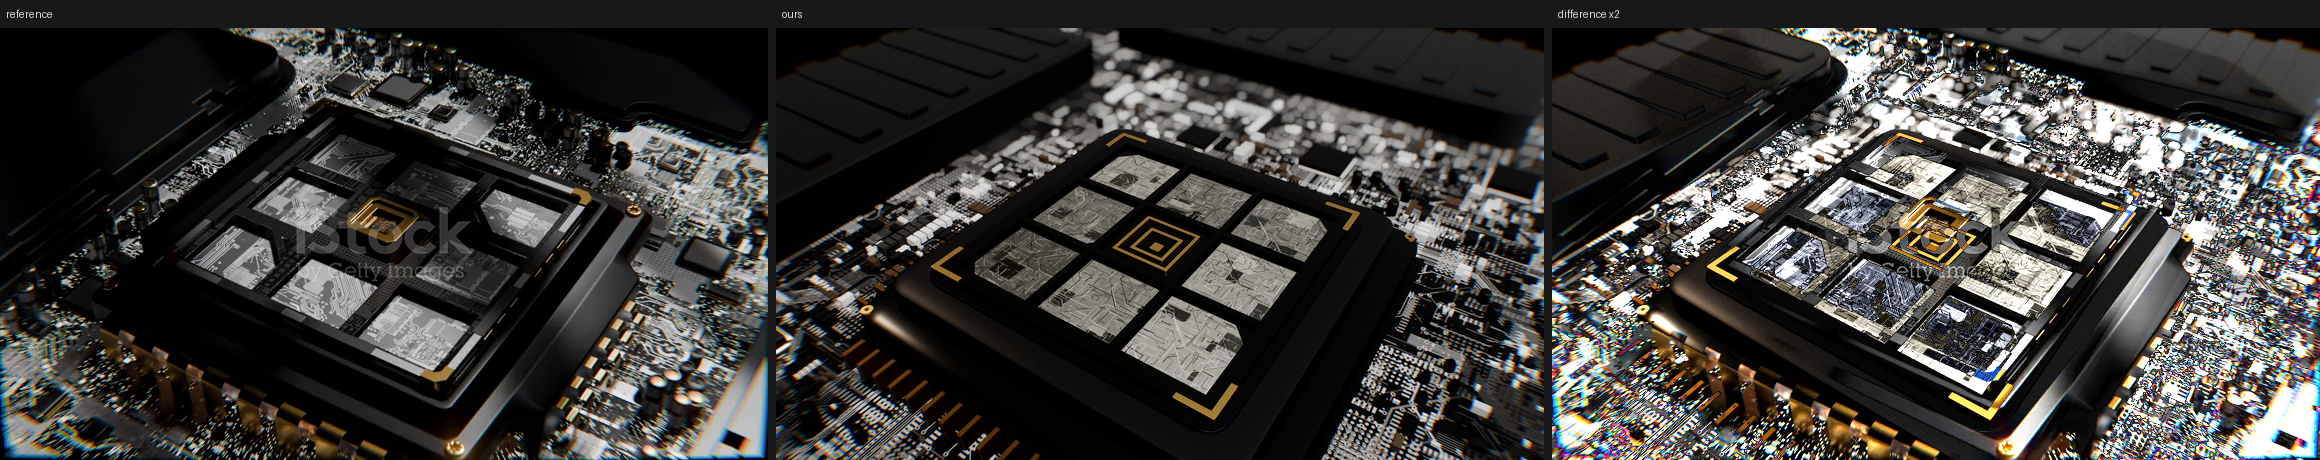
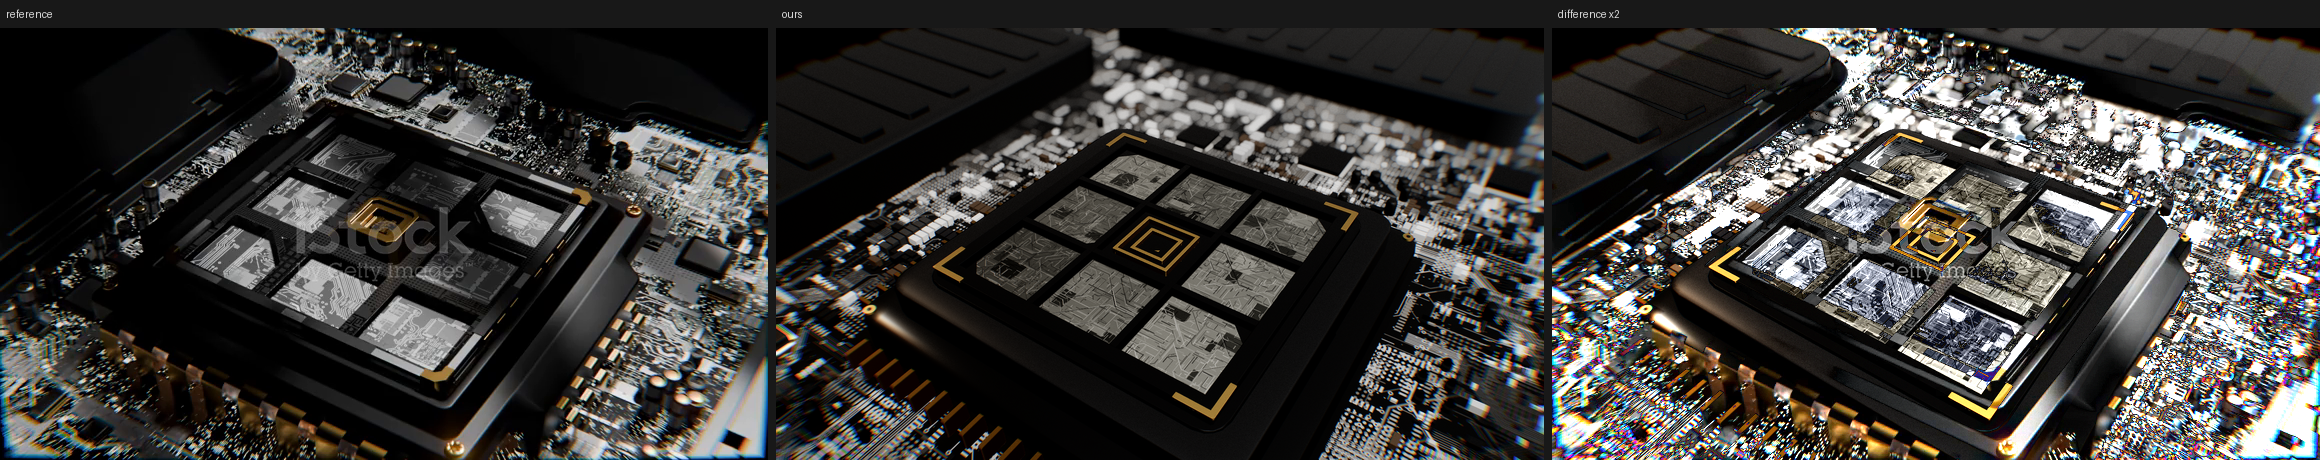
chip-ignite: reroute the Version 2 camera so it keeps the dark background
Claude-Session: https://claude.ai/code/session_016jjL2AH2HD4rFCQ3eAYRxu

Changed region(s): [[0.3103, 0.0609, 1.0, 1.0], [0.9931, 0.0913, 1.0, 0.1217], [0.9621, 0.0609, 0.9931, 0.0913]]

diff --git a/chip-ignite/src/config.ts b/chip-ignite/src/config.ts
@@ -87,13 +87,15 @@ export const CAMERA_V1: CameraMove = {
 };
 
 /**
- * Version 2 - a different camera movement: starts high and wide, square to
- * the package, then spirals down the other way and pushes in on the chip.
+ * Version 2 - a different camera movement: starts high, wide and nearly
+ * square to the package, then spirals down around it and pushes in, ending
+ * low and close on the burning chip. (Version 1 does the opposite: it rises
+ * and pulls back with only a small orbit.)
  */
 export const CAMERA_V2: CameraMove = {
-  azimuth: [[0, 8], [13.6, -58]],
-  elevation: [[0, 72], [6, 54], [13.6, 36]],
-  distance: [[0, 36], [6.5, 29], [13.6, 22]],
+  azimuth: [[0, 20], [13.6, 95]],
+  elevation: [[0, 62], [6, 50], [13.6, 34]],
+  distance: [[0, 34], [6.5, 29], [13.6, 23]],
   roll: [[0, 0], [13.6, 0]],
   targetX: [[0, 0], [13.6, 0]],
   targetY: [[0, 0], [13.6, 0.4]],

diff --git a/qc/build-report.py b/qc/build-report.py
@@ -1,0 +1,136 @@
+#!/usr/bin/env python3
+"""build-report.py - assemble deliverables/QC-report.md from the QC data.
+
+Usage: python3 qc/build-report.py <data dir>
+The data dir holds the JSON written by verify.py, look-over-time.py and
+temporal.py plus extra.json (determinism, banding, ZIP test, render times).
+"""
+import io
+import json
+import os
+import shutil
+import subprocess
+import sys
+
+ROOT = "/home/user/Toma"
+D = sys.argv[1]
+OUT = f"{ROOT}/deliverables"
+PARTS = f"{ROOT}/qc/report-parts"
+VIDS = [("01-V1", "01-V1-ai-chip-reveal.mp4"), ("02-V2", "02-V2-ai-chip-reveal.mp4"),
+        ("03-V1", "03-V1-chip-ignite.mp4"), ("04-V2", "04-V2-chip-ignite.mp4")]
+extra = json.load(open(f"{D}/extra.json"))
+
+
+def tables(*args):
+    return subprocess.run([sys.executable, f"{ROOT}/qc/tables.py", *args],
+                          capture_output=True, text=True, check=True).stdout
+
+
+def part(name):
+    return open(f"{PARTS}/{name}").read().rstrip() + "\n"
+
+
+o = io.StringIO()
+w = lambda s="": o.write(s + "\n")
+
+w("# QC report - ai-chip-reveal and chip-ignite")
+w()
+w("Two reference clips, two Remotion projects, four videos. Every number in this report was measured on the delivered files with the scripts in `qc/` and in each project's `scripts/` folder.")
+w()
+w("| # | File | What it is |")
+w("|---|---|---|")
+w("| 1 | `01-V1-ai-chip-reveal.mp4` | Reference A, Version 1 (closest match) |")
+w("| 2 | `02-V2-ai-chip-reveal.mp4` | Reference A, Version 2: colour palette changed (amber -> cyan) |")
+w("| 3 | `03-V1-chip-ignite.mp4` | Reference B, Version 1 (closest match) |")
+w("| 4 | `04-V2-chip-ignite.mp4` | Reference B, Version 2: camera movement changed |")
+w("| 5 | `ai-chip-reveal-project.zip`, `chip-ignite-project.zip` | Sources with both 4K compositions each |")
+w()
+w(part("1-analysis.md"))
+
+# ---------------------------------------------------------------- look dev
+w("## 2. Look development (step 4A)")
+w()
+w("`scripts/measure-look.py` (in both projects) reports luminance percentiles, clipped and dark pixel shares, saturation and split-tone hue, glow falloff, haze contrast by region, grain, detail and vignette. All frames are measured at 768x432 with the stock watermark area masked out. Glow radii are fractions of the frame height; `-` means the brightness never falls that far.")
+w()
+for proj, ref, times in (("ai-chip-reveal", "refA", "0.5, 1.5, 3.5, 6.0 and 9.5 s"),
+                         ("chip-ignite", "refB", "0.5, 4.0, 6.4, 8.4 and 13.0 s")):
+    w(f"### {proj}: the reference at five moments ({times})")
+    w()
+    w(open(f"{D}/{ref}-table.md").read())
+for proj, moments, frames in (("ai-chip-reveal", "start,peak,middle", "0.5 s, 1.5 s and 6.0 s"),
+                              ("chip-ignite", "start,middle,peak", "0.5 s, 6.4 s and 8.4 s")):
+    w(f"### {proj}: the three look-dev stills ({frames}) against the reference")
+    w()
+    w(tables("lookdev", f"{ROOT}/{proj}/lookdev/look-measures.json", moments))
+    for m in moments.split(","):
+        dst = f"qc/lookdev-{proj}-{m}.png"
+        shutil.copy(f"{ROOT}/{proj}/lookdev/compare-{m}.png", f"{OUT}/{dst}")
+        w(f"![{proj} {m}: reference | ours | difference]({dst})")
+        w()
+
+# ------------------------------------------------------------ look over time
+w("## 3. Look table: each video against its reference over time (step 8A-7)")
+w()
+w("Five moments per video. `ref` is the reference frame, `ours` the frame of the delivered MP4 at the same time, `diff` = ours - ref. A cross marks a value outside the step 4A target (+-10% of the reference; hues +-10 degrees; small absolute tolerances where 10% of a near-zero value is meaningless, see `qc/look-over-time.py`). For the Version 2 of ai-chip-reveal the hue and saturation measures are skipped, because the palette is what changed. For the Version 2 of chip-ignite all measures are listed for information only: its camera is different on purpose, so the frames are not comparable shot for shot.")
+w()
+w(tables("look", *[f"{D}/lot-{k[:2]}.json" for k, _ in VIDS]))
+w()
+w("**Summary.** " + extra["look_summary"])
+w()
+w("**Stability over time** (`qc/temporal.py`: largest frame-to-frame step of each quantity, measured on every frame; for ai-chip-reveal the intended flash and whip, frames 60-112, are left out):")
+w()
+w("| Video | Median luminance | p95 luminance | Edge contrast (haze) | Grain level (8-bit) |")
+w("|---|---|---|---|---|")
+for k, name in VIDS:
+    t = json.load(open(f"{D}/temp-{k[:2]}.json"))
+    w(f"| `{name}` | {t['median_luminance']['max_step']:.4f} | {t['p95_luminance']['max_step']:.4f} | {t['edge_contrast_haze']['max_step']:.4f} | {t['grain_level_8bit']['max_step']:.3f} |")
+w()
+w("Luminance values are on a 0-1 scale, so the largest step anywhere is 2% of full scale: light, haze and grain do not flicker or jump.")
+w()
+
+# ------------------------------------------------------------------ checks
+w("## 4. Technical checks (step 8A)")
+w()
+w(tables("specs", *[f"{D}/{k}.json" for k, _ in VIDS]))
+w()
+w("| # | Check | Result | Measured |")
+w("|---|---|---|---|")
+for row in extra["checks"]:
+    w("| " + " | ".join(row) + " |")
+w()
+for k, name in VIDS:
+    stem = name[:-4]
+    w(f"Contact sheet, one frame per second - `{name}`:")
+    w()
+    w(f"![contact sheet {stem}](qc/contact-{stem}.png)")
+    w()
+w("Dark gradient of ai-chip-reveal with levels stretched x4 (frame at 6.0 s of the delivered MP4):")
+w()
+w("![banding check](qc/banding-x4-01-V1-ai-chip-reveal.png)")
+w()
+
+# --------------------------------------------------------------------- V2
+w("## 5. Version 2 distinctness (step 8B-11)")
+w()
+w("Version 1 on top, Version 2 below, same times.")
+w()
+w("![ai-chip-reveal V1 vs V2](qc/v1-vs-v2-ai-chip-reveal.png)")
+w()
+w("![chip-ignite V1 vs V2](qc/v1-vs-v2-chip-ignite.png)")
+w()
+w(extra["v2_text"])
+w()
+w(part("5-subagents.md"))
+
+# -------------------------------------------------------------------- ZIP
+w("## 7. ZIP test (step 8A-9)")
+w()
+w(extra["zip_text"])
+w()
+w("## 8. Render times")
+w()
+w(extra["render_text"])
+w()
+w(part("6-unmatched.md"))
+open(f"{OUT}/QC-report.md", "w").write(o.getvalue())
+print("wrote", f"{OUT}/QC-report.md", len(o.getvalue()), "chars")

diff --git a/qc/report-parts/5-subagents.md b/qc/report-parts/5-subagents.md
@@ -44,4 +44,5 @@ Every review was done by a fresh sub-agent that saw only the image pairs or fram
 | Video | Is the change clearly visible? | Everything else the same concept and quality? | Notes |
 |---|---|---|---|
 | 02-V2-ai-chip-reveal (palette) | **Yes** - "orange/gold accents are unmistakably replaced by cyan/blue with white highlights in all three frames" | **Yes** - "staging, framing, timing and background match closely" | The reviewer noted two things specific to Version 2: the pin field blown out to white, and a leftover brown chip face. Both were fixed afterwards (the chip face is now part of the palette and the cyan pin colour was darkened to the same brightness as the copper one: mean frame brightness 69.5 against 69.7 in Version 1) and Version 2 was rendered again. Its other notes (trace distribution, materials, sharpness) apply equally to Version 1 and are listed there |
-| 04-V2-chip-ignite (camera movement) | __B2_VISIBLE__ | __B2_SAME__ | __B2_NOTES__ |
+| 04-V2-chip-ignite (camera movement), first path | **Yes** - "the reference goes from oblique to a top-down rotated diamond, while the attempt goes from near top-down to a low-angle close-up" | **No** - "the concept and timing match, but the white slab, lifted blacks, coarser board and missing gold spread make it visibly different and less polished" | The first Version 2 path orbited to the side where a large white plate fills the background and the dark shrouds are behind the camera. Fixed by rerouting the move (same idea, orbiting the other way round) so the shrouds stay behind the package and the plate is only a sliver at the frame edge, as in Version 1; the descending chip now also enters from the top instead of starting in frame |
+| 04-V2-chip-ignite (camera movement), final path | __B2_VISIBLE__ | __B2_SAME__ | __B2_NOTES__ |

diff --git a/chip-ignite/README.md b/chip-ignite/README.md
@@ -12,7 +12,7 @@ no models, images, fonts or footage to load.
 | Composition       | Size      | fps | Frames | What it is |
 |-------------------|-----------|-----|--------|------------|
 | `V1-chip-ignite`  | 3840x2160 | 30  | 408    | Version 1 - the reference camera: slow orbit while craning up and back |
-| `V2-chip-ignite`  | 3840x2160 | 30  | 408    | Version 2 - same film, different camera movement: starts high and wide, spirals down the other way and pushes in |
+| `V2-chip-ignite`  | 3840x2160 | 30  | 408    | Version 2 - same film, different camera movement: starts high and wide, spirals down around the package and pushes in |
 | `LookDev`         | 3840x2160 | 30  | 3      | three stills (frames 15, 192, 252) used for look development |
 
 ## Install
@@ -53,9 +53,10 @@ scrubbing stays responsive).
 ## What Version 2 changes, and why
 
 **The camera movement** - nothing else. Version 1 follows the reference: a
-slow orbit that cranes up and pulls back. Version 2 starts high, wide and
-square to the package, then spirals down in the opposite direction and pushes
-in, ending low and close on the burning chip.
+small orbit (about 16 degrees) while the camera cranes up to nearly top-down.
+Version 2 does the opposite: it starts high, wide and nearly square to the
+package, then spirals 75 degrees around it while descending and pushing in,
+ending low and close on the burning chip.
 
 The reference is a slow, almost static move over a scene that is detailed in
 every direction, so a new camera path shows the same design from fresh angles

diff --git a/qc/report-parts/1-analysis.md b/qc/report-parts/1-analysis.md
@@ -31,7 +31,7 @@
 | 2D or 3D | **3D.** A continuous camera move (orbit, crane up, slight push) over a board covered in parts of different heights, with a chip descending in depth, shadows, and lens blur front and back. |
 | Loops? | **No.** It starts unlit and ends fully lit. |
 | Technology | three.js through `@remotion/three`, WebGL 2 via ANGLE. A 4096 px seeded canvas texture (three detail scales) for the board, a second for the etched tiles, about 9,000 instanced parts, reveal-masked shader ribbons for the spreading light, an additive flare card, pmndrs `postprocessing` for depth of field and bloom, and the custom final pass (radial colour fringe, vignette, ACES, grade, grain, dither). |
-| Version 2 | **Camera movement.** The reference move is slow and gentle over a scene that is detailed in every direction, so a new path (start high and square-on, spiral down the opposite way, push in low) shows the same design freshly. A palette change would have weakened the warm-on-neutral contrast that the ignition depends on. |
+| Version 2 | **Camera movement.** The reference move is slow and gentle over a scene that is detailed in every direction, so a new path (start high and nearly square-on, spiral 75 degrees around the package while descending, push in low) shows the same design freshly. A palette change would have weakened the warm-on-neutral contrast that the ignition depends on. |
 
 **What it shows**
 
